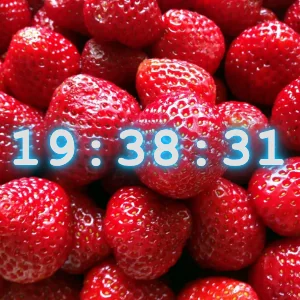
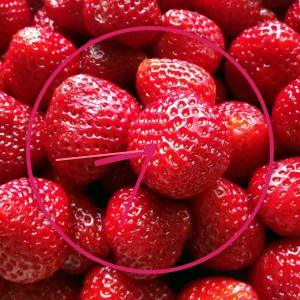
n

Changed region(s): [[0.0, 0.06, 0.99, 0.93]]

diff --git a/src/pages/2026/26-08/26-08-10/Clock.tsx b/src/pages/2026/26-08/26-08-10/Clock.tsx
@@ -1,4 +1,5 @@
 import strawImage from '@/assets/images/26_images/26-08/26-08-10/straw.webp';
+import { useClockAngles } from '@/hooks/useClockAngles';
 import { useSecondClock } from '@/utils/hooks';
 import React, { memo, useMemo } from 'react';
 import styles from './Clock.module.css';
@@ -8,6 +9,7 @@ export const assets: string[] = [strawImage];
 
 const ClockComponent: React.FC = () => {
   const time = useSecondClock();
+  const { hourAngle, minAngle, secAngle } = useClockAngles(time);
 
   const { timeString, accessibleTime } = useMemo(() => {
     const hours = String(time.getHours()).padStart(2, '0');
@@ -24,14 +26,28 @@ const ClockComponent: React.FC = () => {
 
   return (
     <main className={styles.container}>
-      <time dateTime={time.toISOString()} className={styles.digitalClock}>
-        {timeString}
-      </time>
+      <div className={styles.analogClock}>
+        <div className={styles.face}>
+          <div
+            className={`${styles.hand} ${styles.hourHand}`}
+            style={{ transform: `rotate(${hourAngle}deg)` }}
+          />
+          <div
+            className={`${styles.hand} ${styles.minuteHand}`}
+            style={{ transform: `rotate(${minAngle}deg)` }}
+          />
+          <div
+            className={`${styles.hand} ${styles.secondHand}`}
+            style={{ transform: `rotate(${secAngle}deg)` }}
+          />
+          <div className={styles.centerDot} />
+        </div>
+      </div>
 
       {/* Screen-reader only accessible time */}
-      <span className={styles.srOnly} aria-live="polite">
-        {accessibleTime}
-      </span>
+      <time dateTime={time.toISOString()} className={styles.srOnly}>
+        {timeString}
+      </time>
     </main>
   );
 };

diff --git a/src/pages/2026/26-08/26-08-10/Clock.module.css b/src/pages/2026/26-08/26-08-10/Clock.module.css
@@ -7,18 +7,53 @@
   background-image: url('@/assets/images/26_images/26-08/26-08-10/straw.webp');
   background-size: cover;
   background-position: center;
-  color: #e0e0e0;
+  color: #D81B60; /* Strawberry Red */
   font-family: 'Courier New', Courier, monospace;
 }
 
-.digitalClock {
-  font-size: 18vmin;
-  font-weight: bold;
-  letter-spacing: 0.05em;
-  text-shadow:
-    0 0 5px #00bfff,
-    0 0 10px #00bfff,
-    0 0 20px #00bfff;
+.analogClock {
+  width: 80vmin;
+  height: 80vmin;
+  border: 4px solid #D81B60;
+  border-radius: 50%;
+  position: relative;
+  box-shadow:
+    0 0 10px rgba(0, 0, 0, 0.5),
+    inset 0 0 10px rgba(0, 0, 0, 0.3);
+}
+
+.face {
+  width: 100%;
+  height: 100%;
+  position: relative;
+}
+
+.hand {
+  position: absolute;
+  bottom: 50%;
+  left: 50%;
+  transform-origin: bottom center;
+  background-color: #D81B60;
+  border-radius: 2px;
+}
+
+.hourHand {
+  width: 6px;
+  height: 25%;
+  transform: translateX(-50%);
+}
+
+.minuteHand {
+  width: 4px;
+  height: 35%;
+  transform: translateX(-50%);
+}
+
+.secondHand {
+  width: 2px;
+  height: 40%;
+  background-color: #FF6F91; /* Lighter strawberry for contrast */
+  transform: translateX(-50%);
 }
 
 .srOnly {
@@ -31,4 +66,15 @@
   clip: rect(0, 0, 0, 0);
   white-space: nowrap;
   border-width: 0;
+}
+
+.centerDot {
+  position: absolute;
+  top: 50%;
+  left: 50%;
+  transform: translate(-50%, -50%);
+  width: 12px;
+  height: 12px;
+  background-color: #D81B60;
+  border-radius: 50%;
 }
